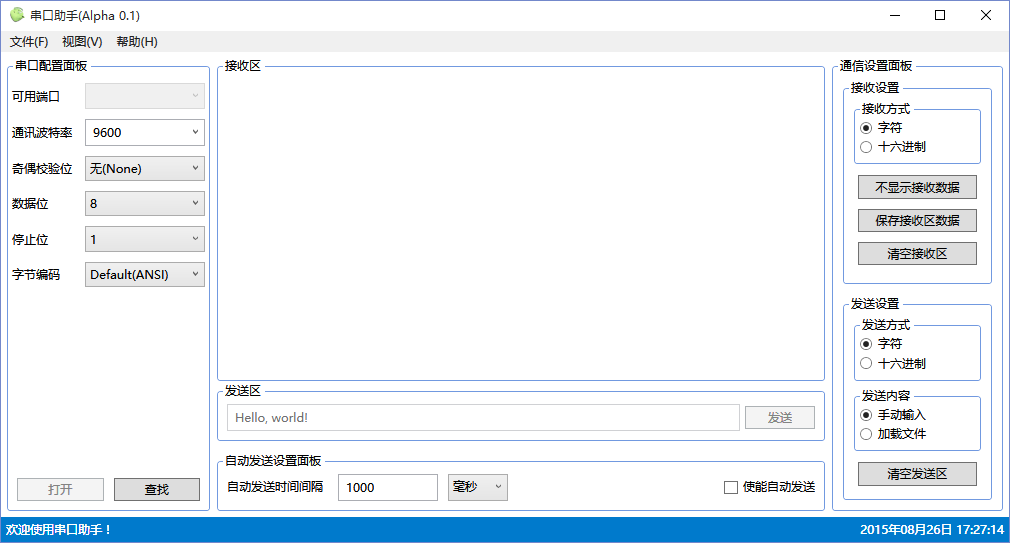
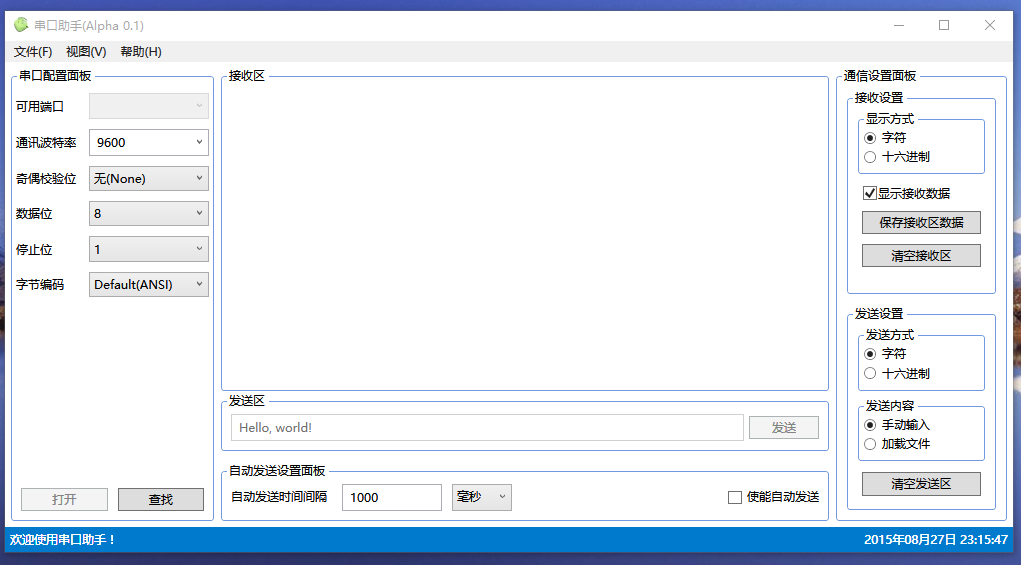
更新README.md文件，并更改了更新的测试图片。

Changed region(s): [[0.0, 0.0, 1.0, 1.0]]

diff --git a/README.md b/README.md
@@ -1,4 +1,4 @@
-# WPFSerialAssitan 串口助手
+# WPFSerialAssitan 串口助手
 ------------------
 ## 引言
 **一款基于C#及WPF的串口助手软件。本串口助手操作方便，UI简洁。软件实现了基本的串口通讯需要的功能，开发者可以基于此添加自定义的功能。此外，可以基于此开发出一些简单的串口控制类软件。本人编写过不少基于串口通讯的软件，希望这个可以对初学者有所帮助。**
@@ -30,22 +30,27 @@
 
 ## 测试图片
 ### 启动初始化截图
-![启动初始化截图](https://code.csdn.net/u011193957/serialassistant/blob/master/DebugPics/1.PNG)
+![启动初始化截图](https://code.csdn.net/u011193957/serialassistant/blob/master/DebugPics/1.png)
 
-### 自动发送测试截图
-![自动发送测试截图](https://code.csdn.net/u011193957/serialassistant/blob/master/DebugPics/2.PNG)
+### 打开端口并接收数据
+![打开端口并接收数据](https://code.csdn.net/u011193957/serialassistant/blob/master/DebugPics/2.PNG)
 
-### 隐藏左侧设置面板截图
-![隐藏左侧设置面板截图](https://code.csdn.net/u011193957/serialassistant/blob/master/DebugPics/3.PNG)
+### 可自由隐藏的设置面板
+![可自由隐藏的设置面板1](https://code.csdn.net/u011193957/serialassistant/blob/master/DebugPics/3.PNG)
+![可自由隐藏的设置面板2](https://code.csdn.net/u011193957/serialassistant/blob/master/DebugPics/4.PNG)
 
-### 隐藏下侧设置面板截图
-![隐藏下侧设置面板截图](https://code.csdn.net/u011193957/serialassistant/blob/master/DebugPics/4.PNG)
-
-### 隐藏右侧设置面板截图（无干扰视图模式，让用户专注于数据的收发）
-![隐藏右侧设置面板截图（无干扰视图模式，让用户专注于数据的收发）](https://code.csdn.net/u011193957/serialassistant/blob/master/DebugPics/5.PNG)
+### 简洁无干扰的视图
+![简洁无干扰的视图](https://code.csdn.net/u011193957/serialassistant/blob/master/DebugPics/5.PNG)
 
 ## 使用到的开源库
 * 本软件使用的一个开源的Json.Net库，可以非常方便地使用它用Json格式存储配置信息或者加载Json格式的配置文件。其主页为：http://www.newtonsoft.com/json。
 
 ## 开发
 这个是一个完整的Visual Studio工程，直接Clone下来即可。
+
+## 相关开源项目
+暑假同时完成了一个基于Arduino的太阳能自动供水系统。当然，这个系统并没有实际使用上，但是设计的功能基本都实现了。这个项目属于比较综合的了。使用了串口通信的方式与PC端的控制软件进行通信。该PC串口控制软件可以给单片机发送自定义的控制指令，并被执行。所以，便涉及到通信用的自定义的协议设计，Arduino指令解析系统的设计和实现。如果感兴趣的话，也同样可以关注，共同学习进步！！谢谢！以下是项目托管地址：
+1. Github地址：https://github.com/ChrisLeeGit/AutomaticWaterSupplySystem
+2. CSDN Code地址：https://code.csdn.net/u011193957/automaticwatersupplysystem
+
+
